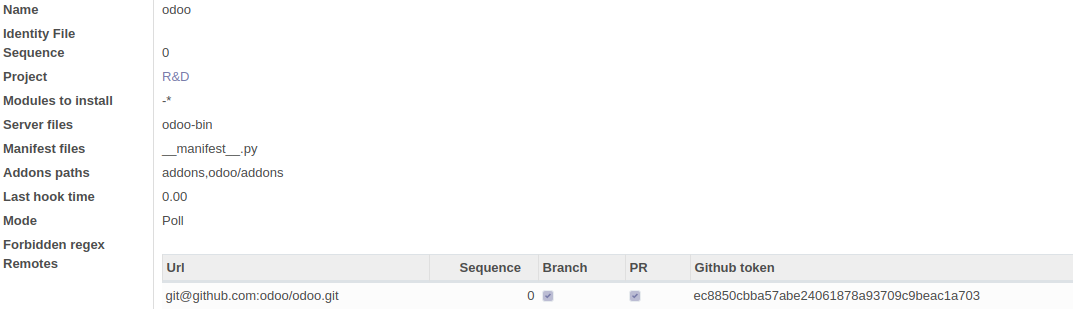
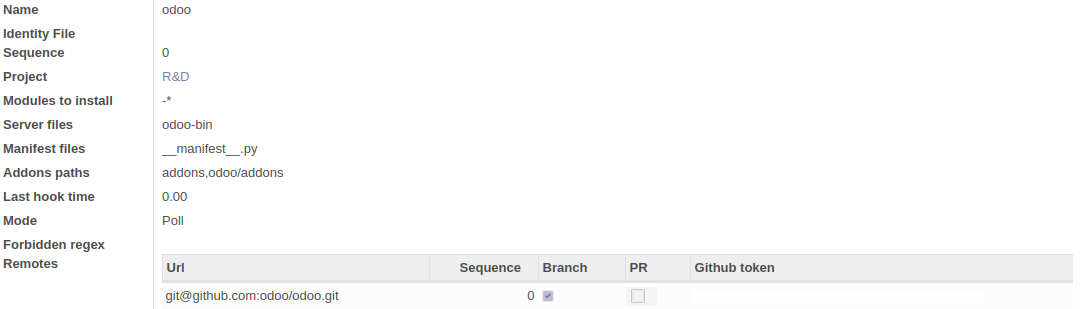
[FIX] runbot: simplest base example without pr

Changed region(s): [[0.6417, 0.932, 0.9167, 0.9903], [0.5806, 0.932, 0.6111, 0.9903]]

diff --git a/README.md b/README.md
@@ -129,7 +129,7 @@ Create a repo for you custom addons repo
 - No server files should be given since it is an addons repo.
 - No addons_path given to use repo root as default.
 - we only want to test runbot and runbot_cla on runbot, `-*,runbot,runbot_cla` will blacklist all except this ones
-- The remote has PR option checked to fetch pull request too. This is optional.
+- The remote PR option can be checked to fetch pull request too if a github token is given for this repo.
 
 #### Tweak runbot parameters and enable features
 
@@ -173,6 +173,8 @@ In this example, we want to create a new build when a new commit is pushed on ru
 Note that the used config is default. It is adviced to customize this config. In our example, adding */runbot,/runbot_cla* test-tags on config step *all* may be a good idea to speed up testing by skipping tests from dependencies.
 
 When a branch is pushed, a new batch will be created, and after one minute the new build will be created if no other change is detected. The build remains in pending state for now. Check the result on 127.0.0.1:8069/runbot
+
+CI options (not on screeshot) will only be used to send status on remotes of trigger repositories having a valid token.
 
 #### Hosts
 Runbot is able to share pending builds accross multiple hosts. In the present case, there is only one. A new host will never assign pending build to himself by default.
